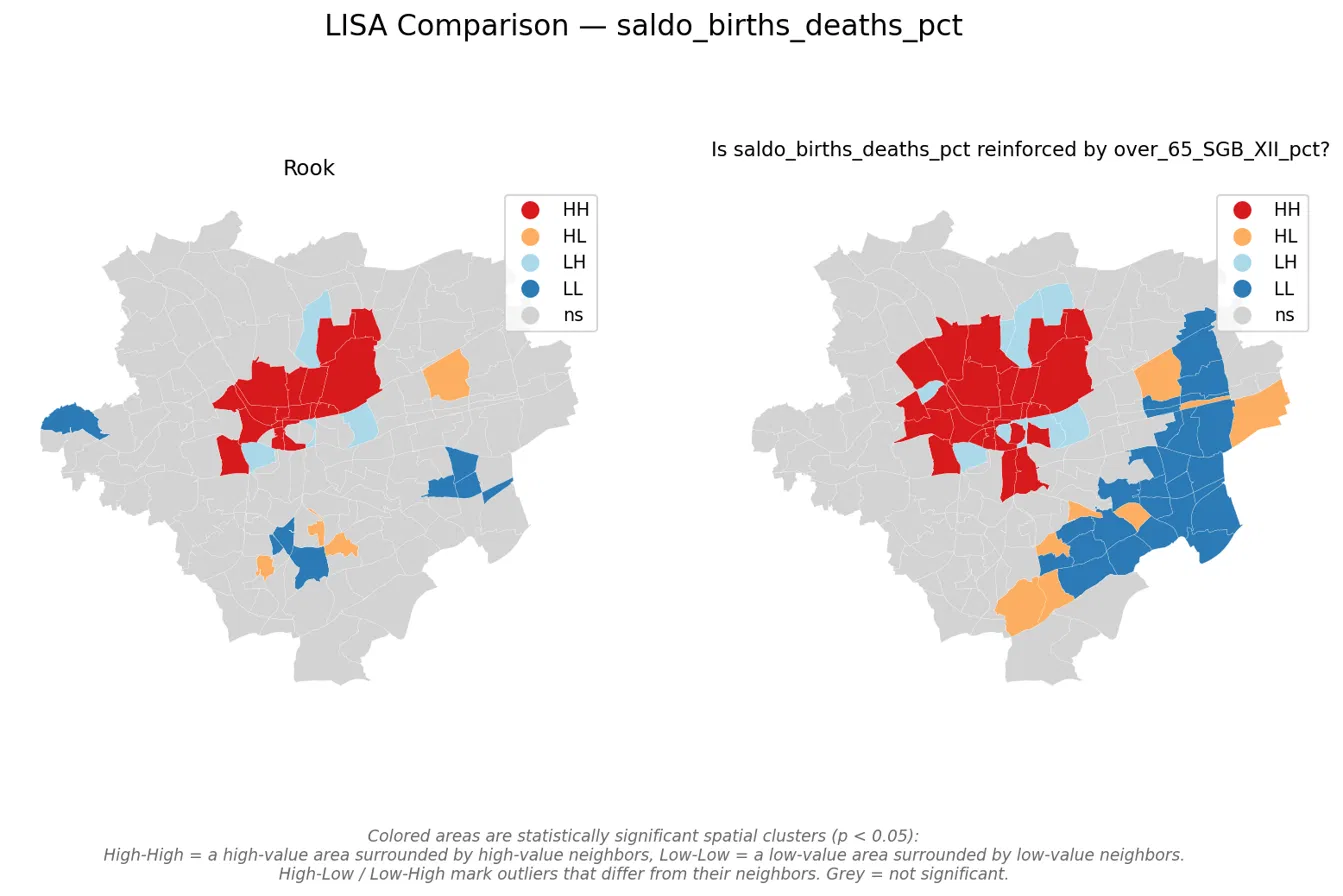
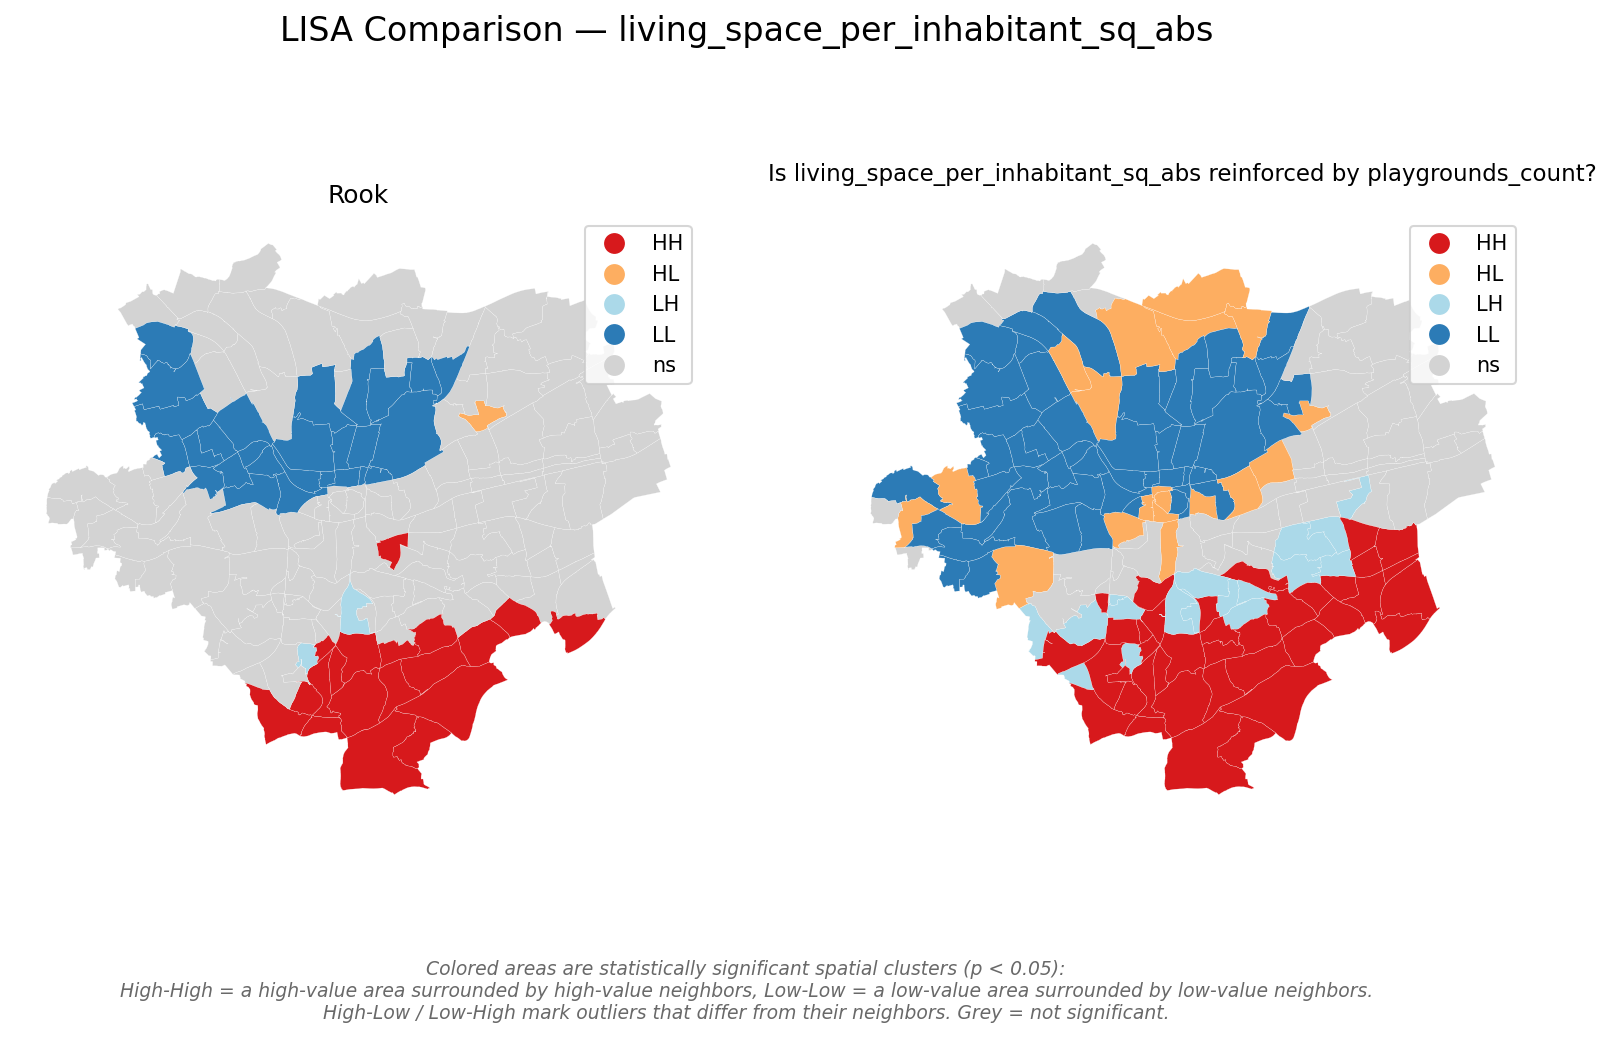
updated comments composite, main, report, scoring; updated image for readme

diff --git a/sj-explorer/src/sj/scoring.py b/sj-explorer/src/sj/scoring.py
@@ -53,18 +53,22 @@ def project_indicators_to_future(
     Projects every indicator into the future, so a composite score can be
     built for a future year (e.g. 2030).
     """
+    # use district ID as index values 
     gdf_t2_by_district = gdf_t2.set_index(id_col)
     projected_columns = {}
  
     for indicator_name in indicators:
         column_t1 = f"{indicator_name}_t1"
         column_t2 = f"{indicator_name}_t2"
+        # projection only possible if indicator exists for both years
         has_both_years = column_t1 in merged.columns and column_t2 in merged.columns
  
         if has_both_years:
+            # predict for all requested time steps, uses function from prediction.py
             prediction_table = build_prediction_table(
                 merged, indicator=indicator_name, w=w, steps=steps, name_col=name_col
             )
+            # keep projected values
             projected_columns[indicator_name] = prediction_table[f"{indicator_name}_projection_step{steps}"]
         else:
             logger.warning(
@@ -72,10 +76,11 @@ def project_indicators_to_future(
                 f"(e.g. a point-data count) - carrying its current value forward "
                 f"unchanged instead of projecting it."
             )
-            # not in merged at all, so read it from the original t2 data instead,
-            # then line it up with merged's district order
+            # no projection possible: reuse current value from t2
+            # reindex keeps same district order as in merged table
             projected_columns[indicator_name] = gdf_t2_by_district[indicator_name].reindex(merged.index)
- 
+
+    # build new gdf with projected indicators and original geometry
     projected_df = pd.DataFrame(projected_columns, index=merged.index)
     projected_gdf = gpd.GeoDataFrame(projected_df, geometry=merged.geometry, crs=merged.crs)
     return projected_gdf

diff --git a/sj-explorer/src/sj/report.py b/sj-explorer/src/sj/report.py
@@ -4,11 +4,8 @@ from pathlib import Path
 
 logger = logging.getLogger(__name__)
 
+# prints the moran's I table
 def print_morans_table(df: pd.DataFrame, variable: str) -> None:
-    """
-    Prints
-    """
-
     print()
     print("=" * 60)
     print(f" Global Moran's I Comparison -{variable}")
@@ -17,18 +14,16 @@ def print_morans_table(df: pd.DataFrame, variable: str) -> None:
     print("=" * 60)
     print()
 
+# saves the moran's I table as CSV
 def save_morans_table(
         df: pd.DataFrame, variable: str, output_dir: str = "reports"
 ) -> None:
-        """
-        some 
-        """
         Path(output_dir).mkdir(exist_ok=True)
         filename = f"{output_dir}/morans_table_{variable}.csv"
         df.to_csv(filename, index=False)
         logger.info("Moran's I table saved to %s", filename)
 
-
+# prints the composite score ranking
 def print_ranking(table: pd.DataFrame, scope: str) -> None:
     """Prints the composite score ranking table."""
     print()
@@ -41,15 +36,7 @@ def print_ranking(table: pd.DataFrame, scope: str) -> None:
     print("=" * 60)
     print()
 
-
-# def save_ranking(table: pd.DataFrame, scope: str, output_dir: str = "reports") -> None:
-#     """Saves the composite score ranking table as CSV."""
-#     Path(output_dir).mkdir(exist_ok=True)
-#     filename = f"{output_dir}/composite_score_{scope}.csv"
-#     cols = [c for c in table.columns if c != "geometry"]
-#     table[cols].to_csv(filename)
-#     logger.info("Composite score ranking saved to %s", filename)
-
+# saves the composite score ranking table as CSV
 def save_ranking(table: pd.DataFrame, scope: str, label: str = "composite", output_dir: str = "reports") -> None:
     filename = f"{output_dir}/score_{label}_{scope}.csv"
     cols = [c for c in table.columns if c != "geometry"]

diff --git a/sj-explorer/src/sj/composite.py b/sj-explorer/src/sj/composite.py
@@ -44,6 +44,7 @@ def minmax(series: pd.Series) -> pd.Series:
         return pd.Series(0.5, index=series.index)
     return (series- series.min()) / rng
 
+# composite score with normalized column per indicator
 def build_composite_score(gdf: gpd.GeoDataFrame, indicators: dict[str, str]) -> pd.DataFrame:
     """
     Normalizes each indicator to [0, 1] and averages them into a composite score where 1 = worst sitution, 0 = best situation. 
@@ -66,12 +67,14 @@ def build_composite_score(gdf: gpd.GeoDataFrame, indicators: dict[str, str]) -> 
     for col, direction in indicators.items():
         norm = minmax(gdf[col])
         if direction == "lower_worse":
-            #invert so that low raw values -> high score (=worse)
+            # invert so that low raw values -> high score (=worse)
             norm = 1 - norm
         normalized[f"{col}_score"] = norm
         logger.info(f" {col} ({direction}): min={gdf[col].min():.3f}, max={gdf[col].max():.3f}")
 
+    # put all normalized indicator scores side by side as columns
     result = pd.DataFrame(normalized, index=gdf.index)
+    # average across all indicators per district: every indicator counts equally
     result["composite_score"] = result.mean(axis=1)
 
     logger.info(

diff --git a/sj-explorer/src/sj/main.py b/sj-explorer/src/sj/main.py
@@ -405,10 +405,12 @@ def score(
 
     if scope not in ("current", "historical", "full"):
         raise typer.BadParameter("scope must be one of: current, historical, full")
-
+    
+    # indicators used by build_composite_score and flag_consistent_disadvantage
     indicators = parse_indicators(indicator)
-
+    # t2 is always used (every scope)
     gdf_t2 = load_database(filename=filename_t2)
+    # earlier year for scopes historical and full
     gdf_t1 = load_database(filename=filename_t1) if scope in ("historical", "full") else None
 
     # block only if points existing
@@ -422,6 +424,7 @@ def score(
                 gdf_t1, _ = count_points_in_boundaries(gdf_t1, point_layer) # _ : point_col is already defined 
 
     merged, w = None, None
+    # prediction functionality only for scope full
     if scope == "full":
         merged = merge_two_years(gdf_t1, gdf_t2, id_col=id_col)
         weight_builders = {
